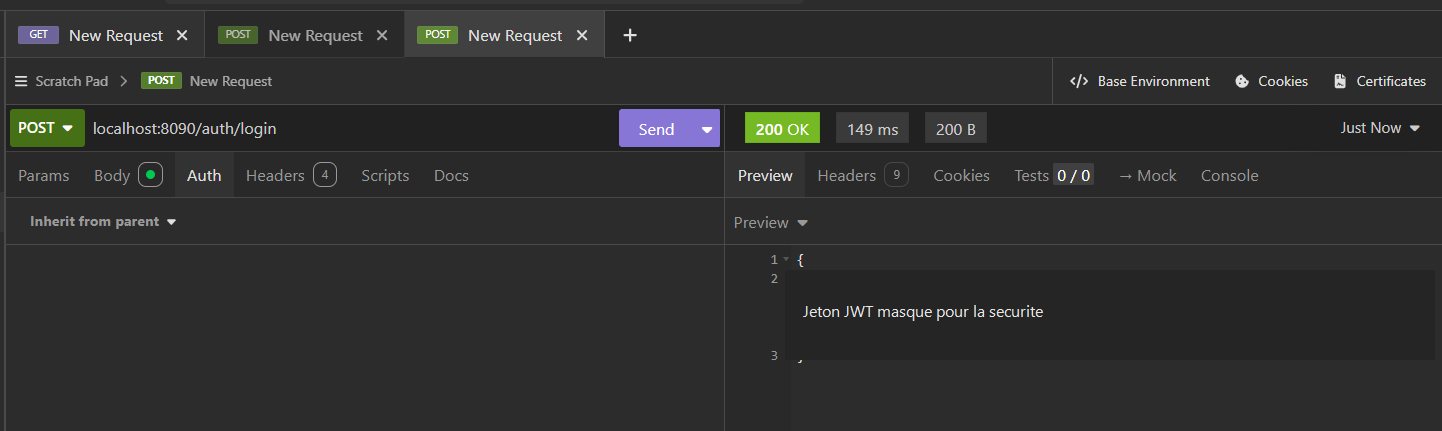
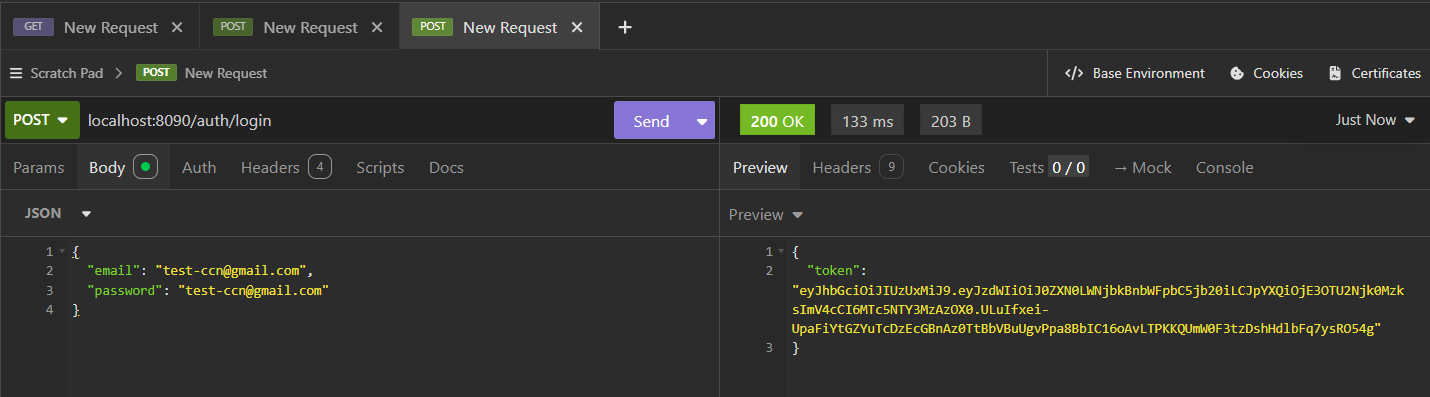
Fix FC

diff --git a/README.md b/README.md
@@ -97,7 +97,7 @@ Authorization: Bearer <jeton-reçu-à-la-connexion>
 
 ## Démonstration
 
-Les captures ci-dessous montrent les réponses `200 OK` obtenues lors des essais de l’inscription, de la connexion et de l’accès au profil. Le JWT de la capture de connexion et l’adresse e-mail du profil ont été masqués dans les copies incluses au dépôt.
+Les captures ci-dessous montrent les réponses `200 OK` obtenues lors des essais de l’inscription, de la connexion et de l’accès au profil. Il s’agit des données de test de la démonstration.
 
 ### Inscription réussie
 
@@ -105,11 +105,11 @@ Les captures ci-dessous montrent les réponses `200 OK` obtenues lors des essais
 
 ### Connexion et émission du JWT
 
-![Connexion réussie et jeton renvoyé — contenu du jeton masqué](docs/demo/connexion-jwt.png)
+![Connexion réussie avec des identifiants de test et jeton JWT renvoyé](docs/demo/connexion-jwt.png)
 
 ### Accès au profil authentifié
 
-![Accès réussi à la route protégée du profil — adresse e-mail masquée](docs/demo/profil-authentifie.png)
+![Accès réussi à la route protégée du profil avec le jeton de test](docs/demo/profil-authentifie.png)
 
 ## Base de données de démonstration
 
